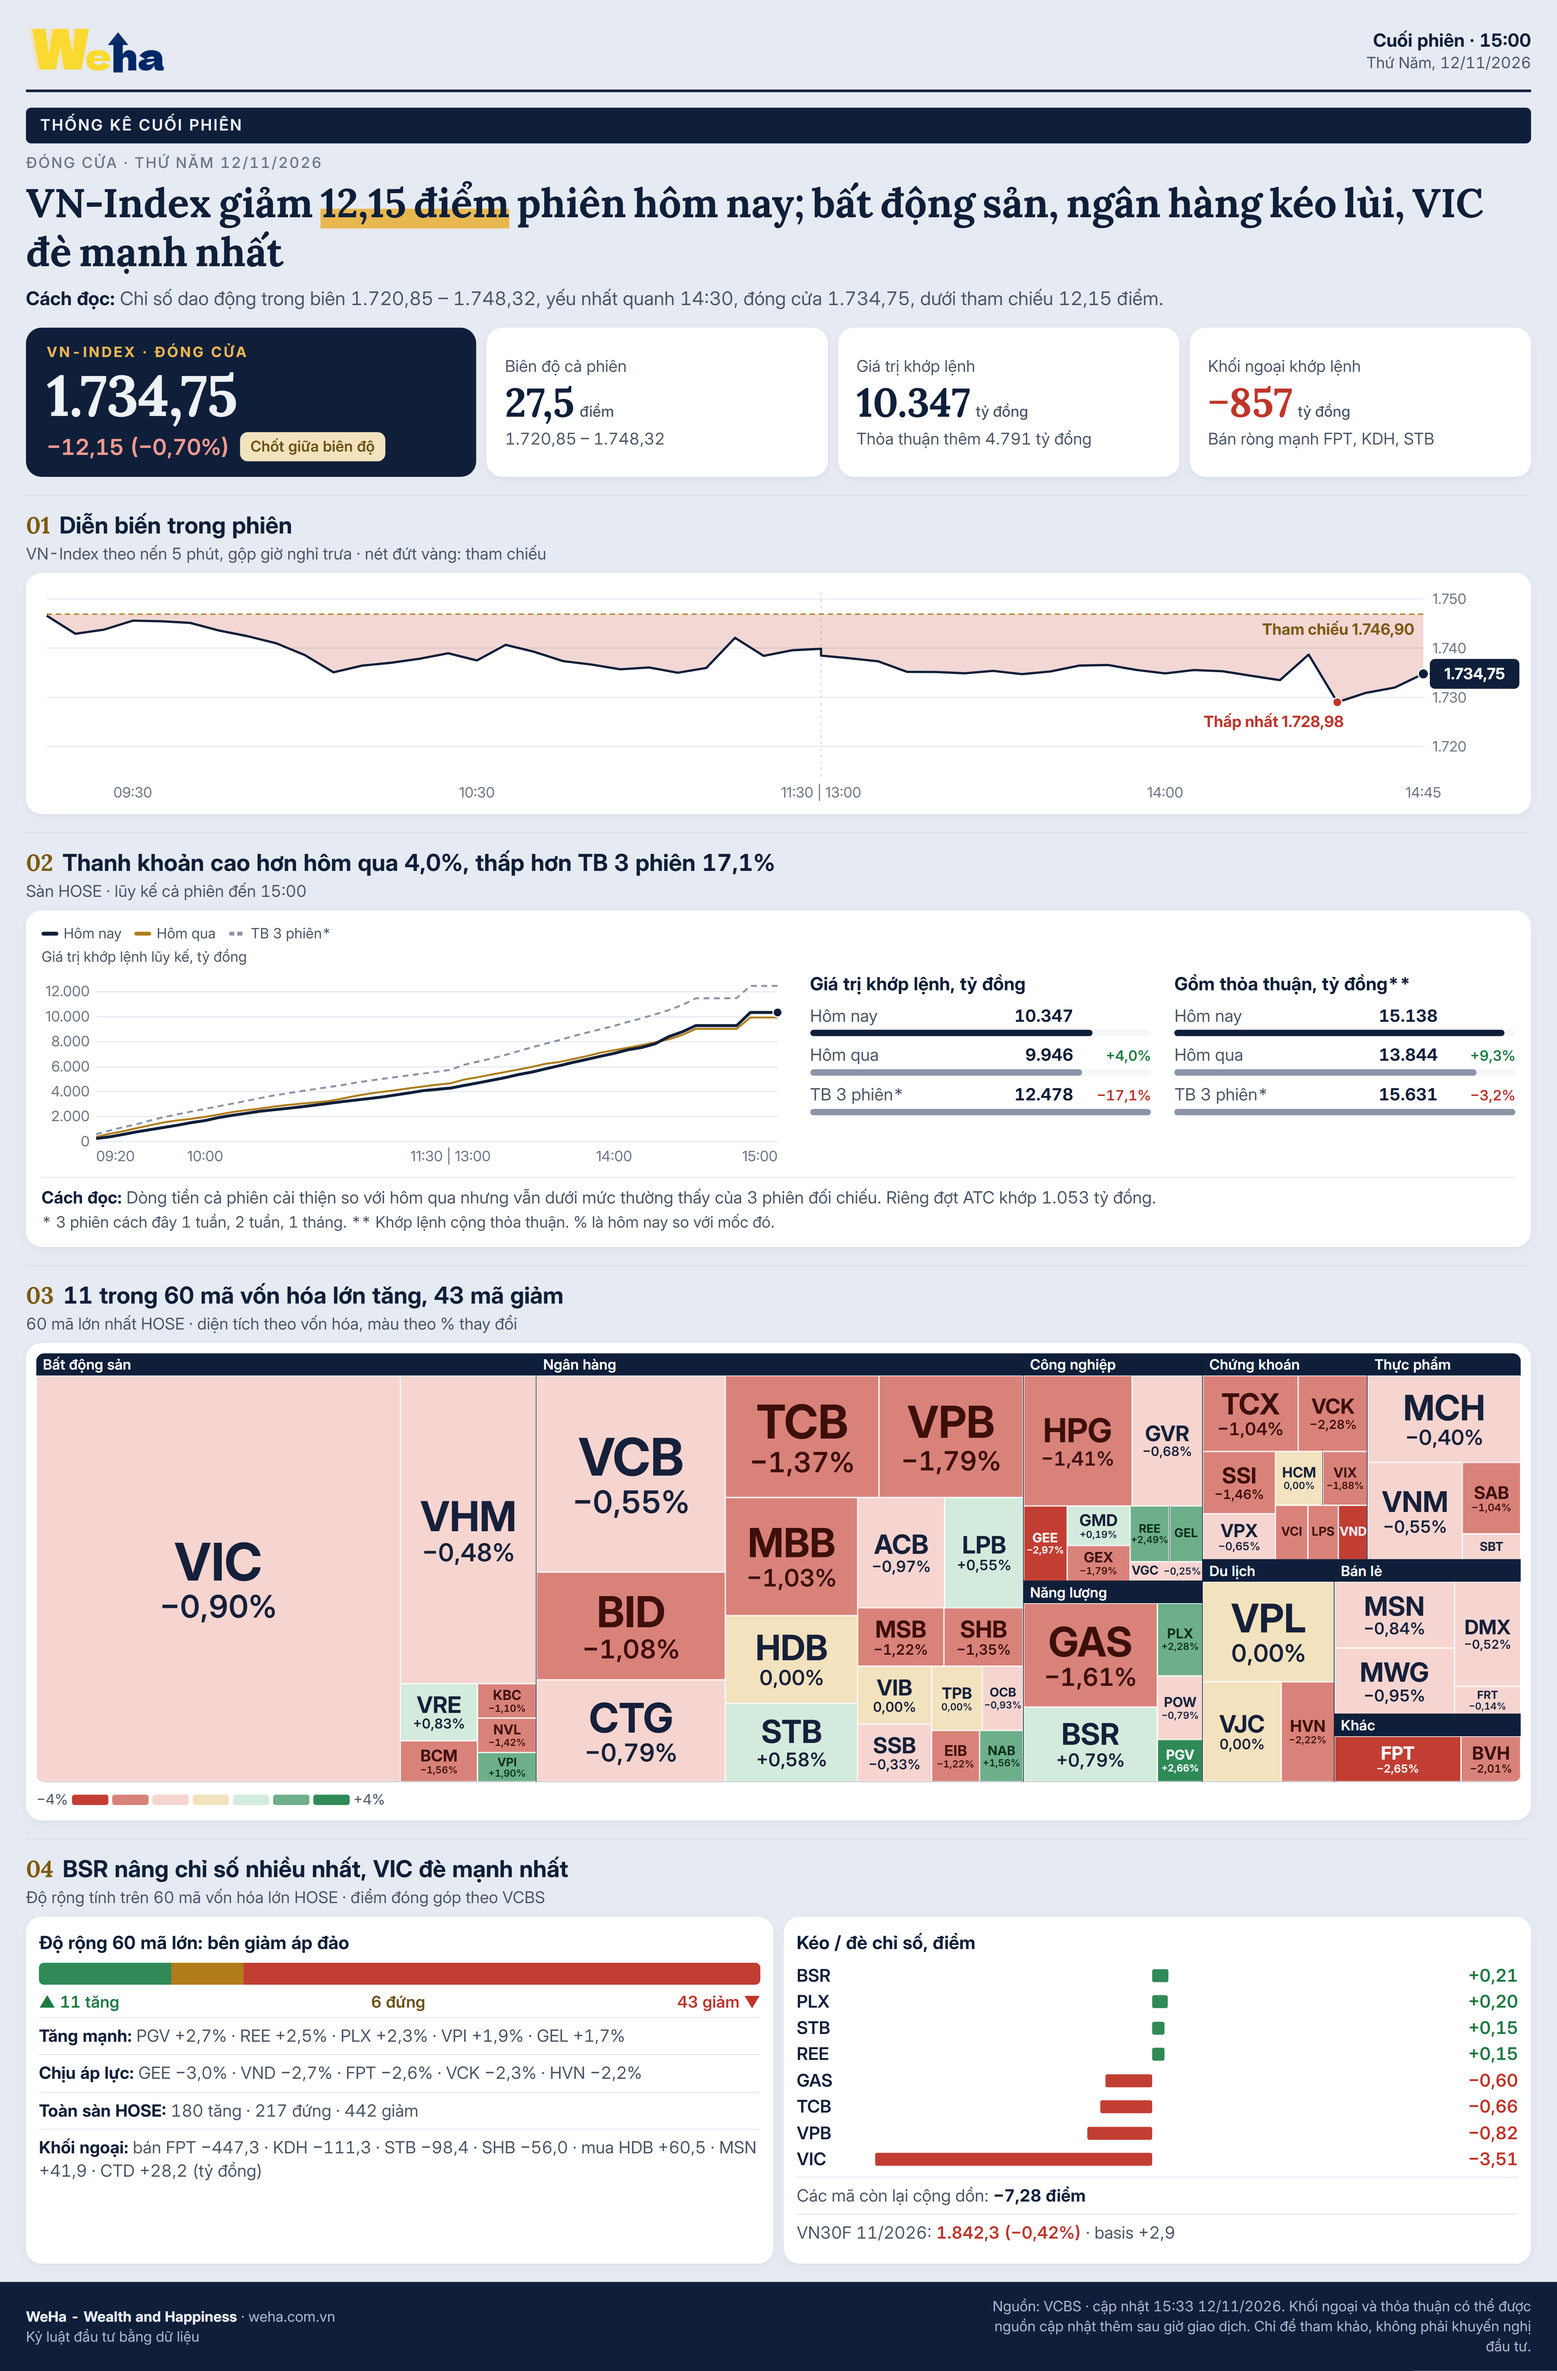
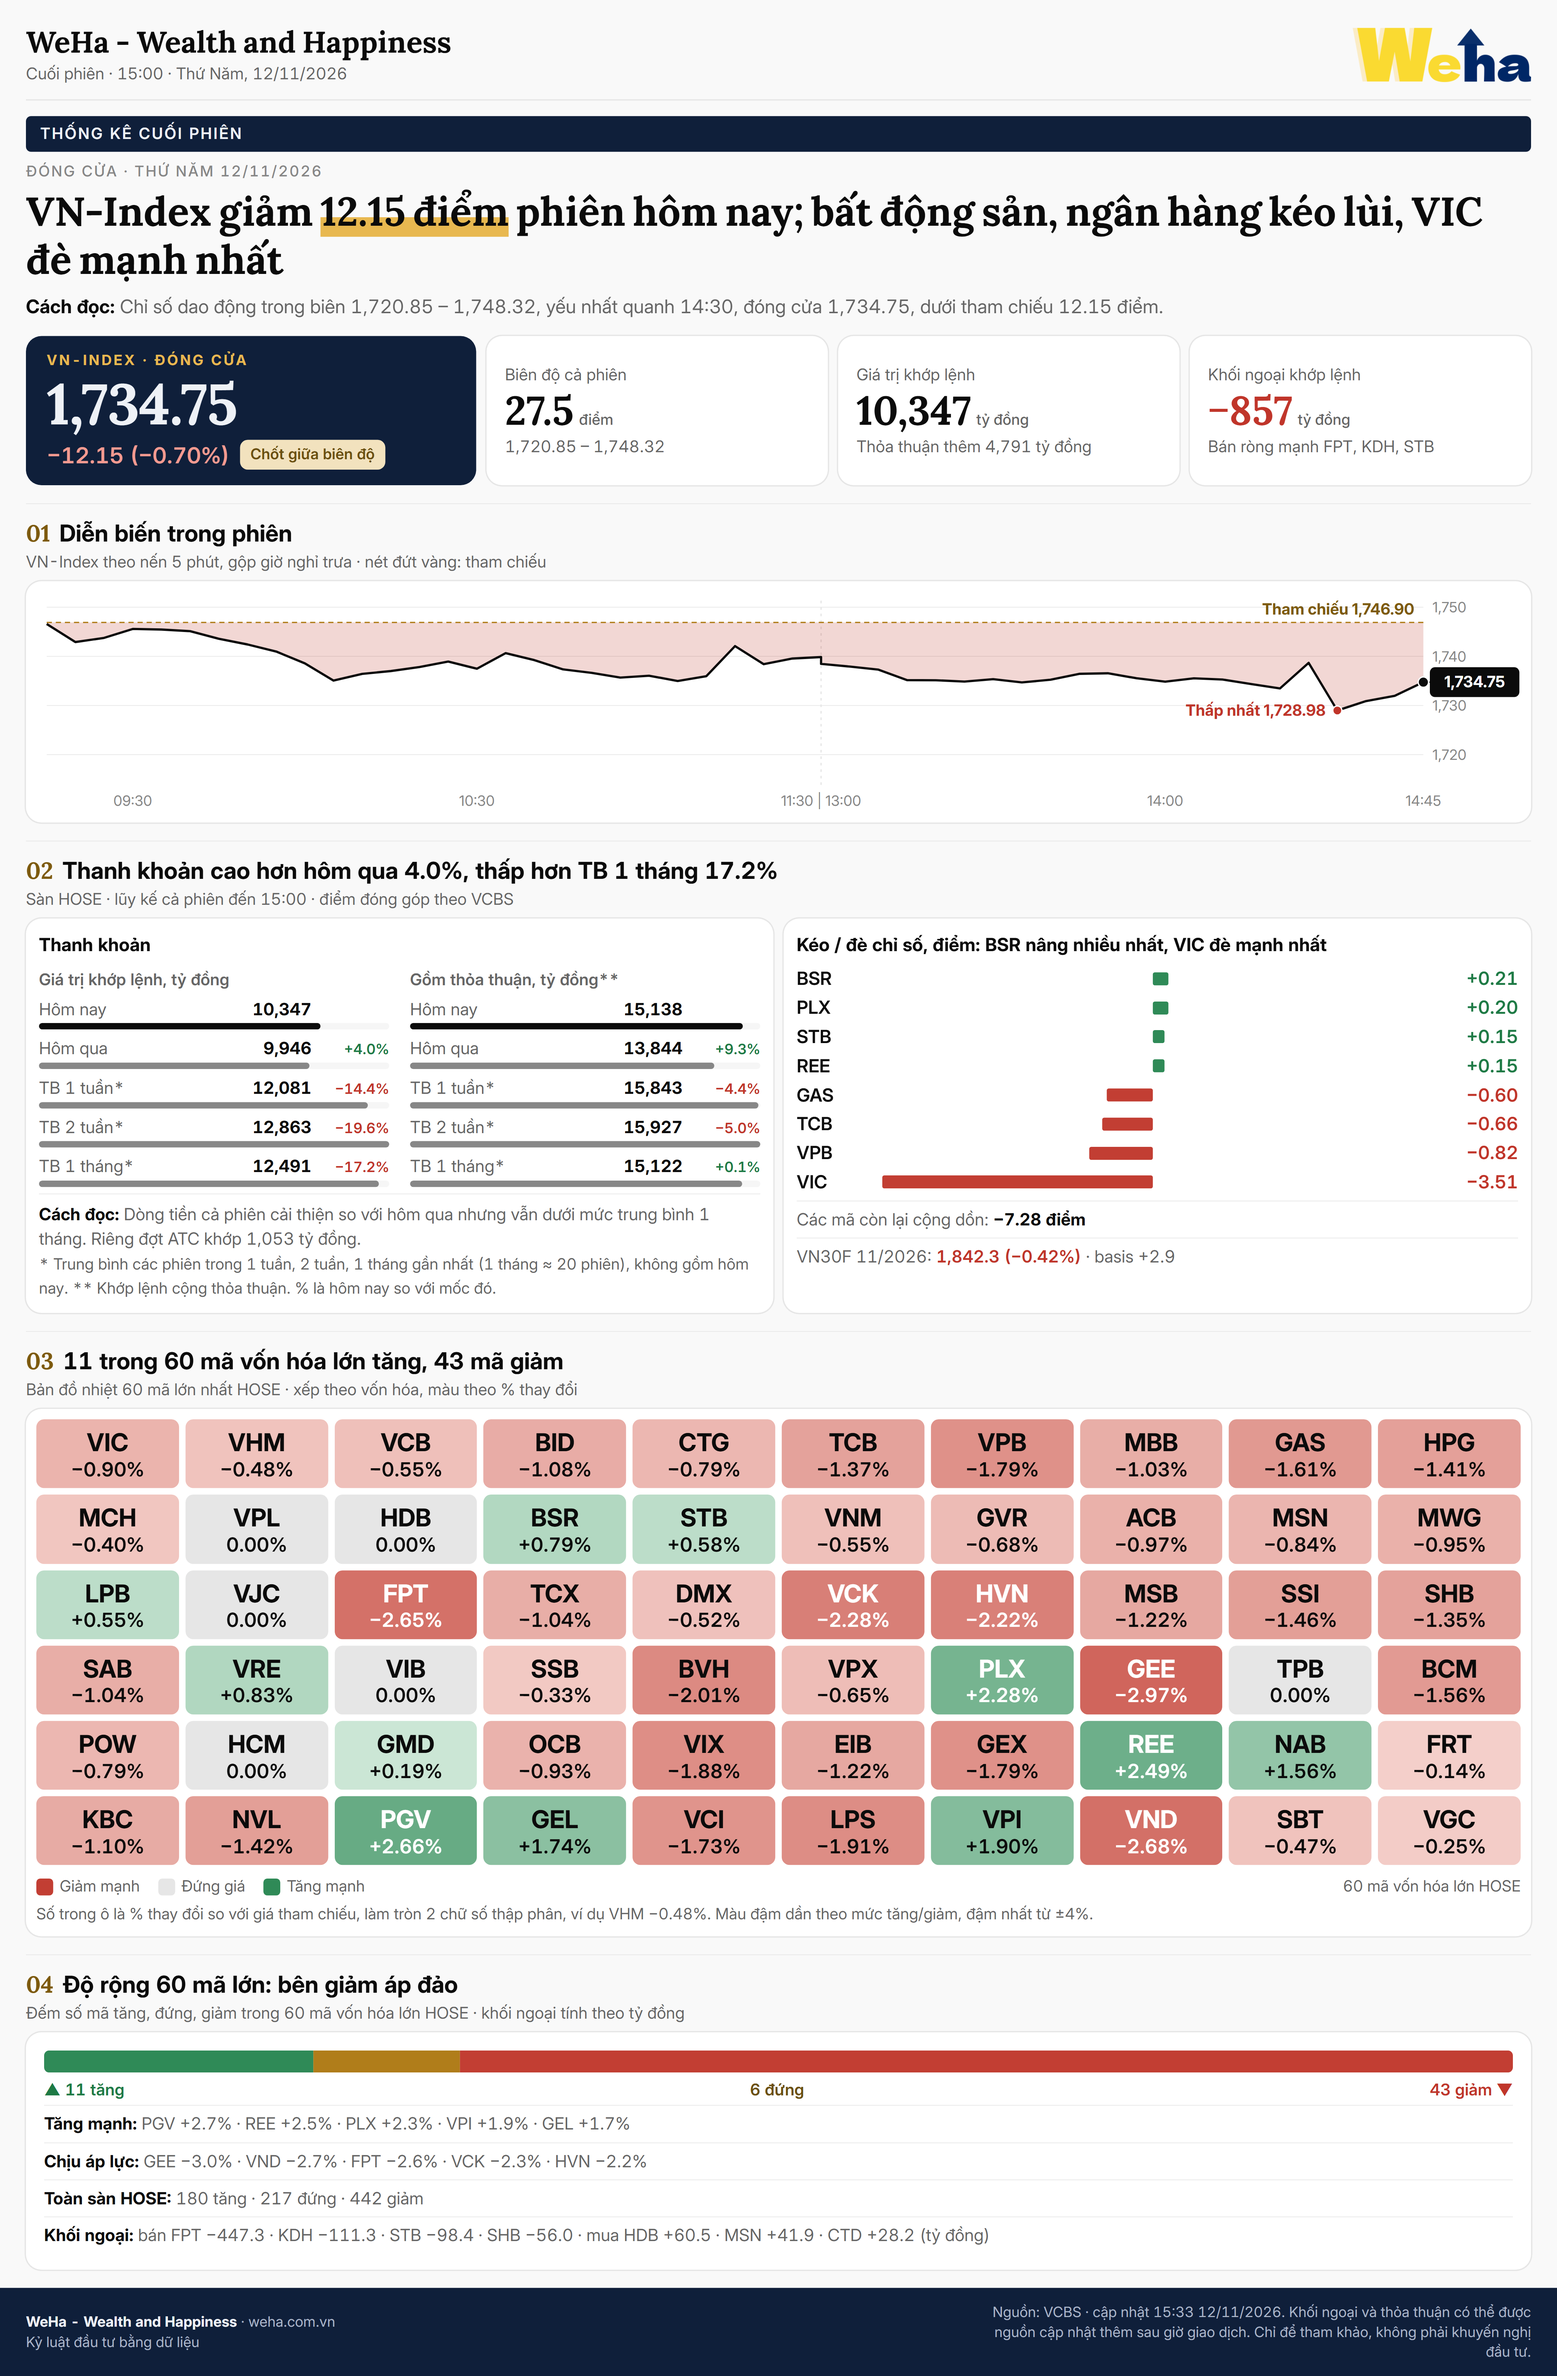
Thống kê giữa/cuối phiên: nhãn biểu đồ diễn biến tự tránh nhau

diff --git a/thong-ke-giua-phien/build.py b/thong-ke-giua-phien/build.py
@@ -89,6 +89,38 @@ def vn30f_code(today=None):
     return f"41I1{chr(ord('G') + y - 2026)}{'123456789ABC'[m - 1]}000", f"VN30F {m:02d}/{y}"
 
 
+def place_labels(line, specs, blocked, lim):
+    """Chọn vị trí nhãn: không chồng nhãn khác/điểm đánh dấu, ít đè lên đường giá nhất.
+    line: các điểm (x,y) của đường giá và đường tham chiếu; specs: [(chữ, [(x,y,anchor),...])]."""
+    pts = []
+    for seg in line:
+        for (x0, y0), (x1, y1) in zip(seg, seg[1:]):
+            n = max(1, int(max(abs(x1 - x0), abs(y1 - y0)) // 5))
+            pts += [(x0 + (x1 - x0) * k / n, y0 + (y1 - y0) * k / n) for k in range(n + 1)]
+    taken, out = list(blocked), []
+    for text, cands in specs:
+        wpx = len(text) * 14.5  # Inter 700 24px
+        best = None
+        for x, y, a in cands:
+            x0 = x - wpx if a == "end" else x - wpx / 2 if a == "middle" else x
+            bx = (x0 - 6, y - 24, x0 + wpx + 6, y + 8)
+            if bx[0] < lim[0] or bx[1] < lim[1] or bx[2] > lim[2] or bx[3] > lim[3]:
+                continue
+            if any(bx[0] < o[2] and o[0] < bx[2] and bx[1] < o[3] and o[1] < bx[3] for o in taken):
+                continue
+            hit = sum(bx[0] <= px <= bx[2] and bx[1] <= py <= bx[3] for px, py in pts)
+            if best is None or hit < best[0]:
+                best = (hit, x, y, a, bx)
+            if hit == 0:
+                break
+        if best is None:
+            x, y, a = cands[0]
+            best = (0, x, y, a, (x, y - 24, x + wpx, y + 8))
+        taken.append(best[4])
+        out.append(best[1:4])
+    return out
+
+
 def price_chart(data):
     pts = [(int(t[:2]) * 60 + int(t[3:5]), v) for t, v in data["series"]]
     ix = data["index"]
@@ -123,15 +155,24 @@ def price_chart(data):
             grid += f'<text x="{xr+14}" y="{Y(v)+8:.1f}" class="ax">{vn(v)}</text>'
     xa = X(690) + 16
     # Nhãn tự tránh nhau: đổi phía khi sát đường tham chiếu hoặc mép khung
-    ny = (t + h - b) / 2 + 8
-    if abs(ny - 8 - yr) < 40:
-        ny -= 56
-    ry = yr - 12 if yr - 40 > t else yr + 32
+    # dòng "Phiên chiều" chọn chỗ xa đường tham chiếu và đường chấm giá hiện tại nhất
+    ny = max((t + 34 + k * (h - b - t - 50) / 8 for k in range(9)),
+             key=lambda y: min(abs(y - 8 - yr), abs(y - 8 - ye)) - abs(y - (t + h - b) / 2) * .05)
     lx, ly = X(lowp[0]), Y(lowp[1])
-    dy = ly + 38
-    if abs(dy - 8 - yr) < 26 or dy > h - b - 4:
-        dy = ly - 20
-    da, dx = ("end", lx + 10) if lx > X(690) - 300 else ("start", lx - 8)
+    poly = [(X(m), Y(v)) for m, v in pts]
+    lim = (l, 0, xr, h - b + 6)
+    blocked = [(xe - 14, ye - 14, xe + 14, ye + 14), (lx - 12, ly - 12, lx + 12, ly + 12), ((xa + xr) / 2 - 190, ny - 26, (xa + xr) / 2 + 190, ny + 8)]
+    low_t = f"Đáy {vn(ix['low'],2)}"
+    ref_t = f"Tham chiếu {vn(ref,2)}"
+    (dx, dy, da), (rx, ry, ra) = place_labels(
+        [poly, [(l, yr), (xr, yr)]],
+        [(low_t, [(lx, ly + 38, "middle"), (lx, ly - 20, "middle"), (lx + 18, ly + 8, "start"),
+                  (lx - 18, ly + 8, "end"), (lx + 10, ly + 38, "end"), (lx - 8, ly + 38, "start"),
+                  (lx + 10, ly - 20, "end"), (lx - 8, ly - 20, "start")]),
+         (ref_t, [(xr - 14, yr - 12, "end"), (xr - 14, yr + 32, "end"), (l + 12, yr - 12, "start"),
+                  (l + 12, yr + 32, "start"), ((l + xr) / 2, yr - 12, "middle"), ((l + xr) / 2, yr + 32, "middle"),
+                  (X(600), yr - 12, "middle"), (X(600), yr + 32, "middle")])],
+        blocked, lim)
     return f'''<svg viewBox="0 0 {w} {h}" width="100%" role="img" aria-label="VN-Index theo nến 5 phút">
 <defs><clipPath id="ab"><rect x="0" y="0" width="{w}" height="{yr:.1f}"/></clipPath>
 <clipPath id="be"><rect x="0" y="{yr:.1f}" width="{w}" height="{h}"/></clipPath></defs>
@@ -143,11 +184,11 @@ def price_chart(data):
 <line x1="{xe:.1f}" x2="{xr+10}" y1="{ye:.1f}" y2="{ye:.1f}" stroke="var(--ink)" stroke-width="1.5" stroke-dasharray="3 6"/>
 <path d="{path}" fill="none" stroke="var(--ink)" stroke-width="3.5" stroke-linejoin="round"/>
 <circle cx="{lx:.1f}" cy="{ly:.1f}" r="7" fill="var(--down)" stroke="#fff" stroke-width="2"/>
-<text x="{dx:.1f}" y="{dy:.1f}" text-anchor="{da}" class="lab" fill="var(--down)">Đáy {vn(ix['low'],2)}</text>
+<text x="{dx:.1f}" y="{dy:.1f}" text-anchor="{da}" class="lab" fill="var(--down)">{low_t}</text>
 <circle cx="{xe:.1f}" cy="{ye:.1f}" r="8" fill="var(--ink)" stroke="#fff" stroke-width="2"/>
 <rect x="{xr+10}" y="{ye-23:.1f}" width="{r-12}" height="46" rx="8" fill="var(--ink)"/>
 <text x="{xr+10+(r-12)/2:.1f}" y="{ye+8:.1f}" text-anchor="middle" class="lab" fill="#fff">{vn(pts[-1][1],2)}</text>
-<text x="{xr-14}" y="{ry:.1f}" text-anchor="end" class="lab" fill="var(--gold-strong)">Tham chiếu {vn(ref,2)}</text>
+<text x="{rx:.1f}" y="{ry:.1f}" text-anchor="{ra}" class="lab" fill="var(--gold-strong)">{ref_t}</text>
 {ticks}</svg>'''
 
 

diff --git a/thong-ke-cuoi-phien/build.py b/thong-ke-cuoi-phien/build.py
@@ -83,6 +83,38 @@ def vn30f_code(today=None):
     return f"41I1{chr(ord('G') + y - 2026)}{'123456789ABC'[m - 1]}000", f"VN30F {m:02d}/{y}"
 
 
+def place_labels(line, specs, blocked, lim):
+    """Chọn vị trí nhãn: không chồng nhãn khác/điểm đánh dấu, ít đè lên đường giá nhất.
+    line: các điểm (x,y) của đường giá và đường tham chiếu; specs: [(chữ, [(x,y,anchor),...])]."""
+    pts = []
+    for seg in line:
+        for (x0, y0), (x1, y1) in zip(seg, seg[1:]):
+            n = max(1, int(max(abs(x1 - x0), abs(y1 - y0)) // 5))
+            pts += [(x0 + (x1 - x0) * k / n, y0 + (y1 - y0) * k / n) for k in range(n + 1)]
+    taken, out = list(blocked), []
+    for text, cands in specs:
+        wpx = len(text) * 14.5  # Inter 700 24px
+        best = None
+        for x, y, a in cands:
+            x0 = x - wpx if a == "end" else x - wpx / 2 if a == "middle" else x
+            bx = (x0 - 6, y - 24, x0 + wpx + 6, y + 8)
+            if bx[0] < lim[0] or bx[1] < lim[1] or bx[2] > lim[2] or bx[3] > lim[3]:
+                continue
+            if any(bx[0] < o[2] and o[0] < bx[2] and bx[1] < o[3] and o[1] < bx[3] for o in taken):
+                continue
+            hit = sum(bx[0] <= px <= bx[2] and bx[1] <= py <= bx[3] for px, py in pts)
+            if best is None or hit < best[0]:
+                best = (hit, x, y, a, bx)
+            if hit == 0:
+                break
+        if best is None:
+            x, y, a = cands[0]
+            best = (0, x, y, a, (x, y - 24, x + wpx, y + 8))
+        taken.append(best[4])
+        out.append(best[1:4])
+    return out
+
+
 def price_chart(data):
     pts = [(int(t[:2]) * 60 + int(t[3:5]), v) for t, v in data["series"]]
     ix = data["index"]
@@ -116,12 +148,21 @@ def price_chart(data):
         if abs(Y(v) - ye) > 34:  # nhãn trục không chui dưới ô giá chốt
             grid += f'<text x="{xr+14}" y="{Y(v)+8:.1f}" class="ax">{vn(v)}</text>'
     xm = X(690)
-    ry = yr - 12 if yr - 40 > t else yr + 32
     lx, ly = X(lowp[0]), Y(lowp[1])
-    dy = ly + 38
-    if abs(dy - 8 - yr) < 26 or dy > h - b - 4:
-        dy = ly - 20
-    da, dx = ("end", lx + 10) if lx > X(885) - 300 else ("start", lx - 8)
+    poly = [(X(m), Y(v)) for m, v in pts]
+    lim = (l, 0, xr, h - b + 6)
+    blocked = [(xe - 14, ye - 14, xe + 14, ye + 14), (lx - 12, ly - 12, lx + 12, ly + 12)]
+    low_t = f"Thấp nhất {vn(lowp[1],2)}"
+    ref_t = f"Tham chiếu {vn(ref,2)}"
+    (dx, dy, da), (rx, ry, ra) = place_labels(
+        [poly, [(l, yr), (xr, yr)]],
+        [(low_t, [(lx, ly + 38, "middle"), (lx, ly - 20, "middle"), (lx + 18, ly + 8, "start"),
+                  (lx - 18, ly + 8, "end"), (lx + 10, ly + 38, "end"), (lx - 8, ly + 38, "start"),
+                  (lx + 10, ly - 20, "end"), (lx - 8, ly - 20, "start")]),
+         (ref_t, [(xr - 14, yr - 12, "end"), (xr - 14, yr + 32, "end"), (l + 12, yr - 12, "start"),
+                  (l + 12, yr + 32, "start"), ((l + xr) / 2, yr - 12, "middle"), ((l + xr) / 2, yr + 32, "middle"),
+                  (X(600), yr - 12, "middle"), (X(600), yr + 32, "middle")])],
+        blocked, lim)
     return f'''<svg viewBox="0 0 {w} {h}" width="100%" role="img" aria-label="VN-Index theo nến 5 phút">
 <defs><clipPath id="ab"><rect x="0" y="0" width="{w}" height="{yr:.1f}"/></clipPath>
 <clipPath id="be"><rect x="0" y="{yr:.1f}" width="{w}" height="{h}"/></clipPath></defs>
@@ -132,11 +173,11 @@ def price_chart(data):
 <line x1="{xe:.1f}" x2="{xr+10}" y1="{ye:.1f}" y2="{ye:.1f}" stroke="var(--ink)" stroke-width="1.5" stroke-dasharray="3 6"/>
 <path d="{path}" fill="none" stroke="var(--ink)" stroke-width="3.5" stroke-linejoin="round"/>
 <circle cx="{lx:.1f}" cy="{ly:.1f}" r="7" fill="var(--down)" stroke="#fff" stroke-width="2"/>
-<text x="{dx:.1f}" y="{dy:.1f}" text-anchor="{da}" class="lab" fill="var(--down)">Thấp nhất {vn(lowp[1],2)}</text>
+<text x="{dx:.1f}" y="{dy:.1f}" text-anchor="{da}" class="lab" fill="var(--down)">{low_t}</text>
 <circle cx="{xe:.1f}" cy="{ye:.1f}" r="8" fill="var(--ink)" stroke="#fff" stroke-width="2"/>
 <rect x="{xr+10}" y="{ye-23:.1f}" width="{r-12}" height="46" rx="8" fill="var(--ink)"/>
 <text x="{xr+10+(r-12)/2:.1f}" y="{ye+8:.1f}" text-anchor="middle" class="lab" fill="#fff">{vn(pts[-1][1],2)}</text>
-<text x="{xr-14}" y="{ry:.1f}" text-anchor="end" class="lab" fill="var(--gold-strong)">Tham chiếu {vn(ref,2)}</text>
+<text x="{rx:.1f}" y="{ry:.1f}" text-anchor="{ra}" class="lab" fill="var(--gold-strong)">{ref_t}</text>
 {ticks}</svg>'''
 
 
